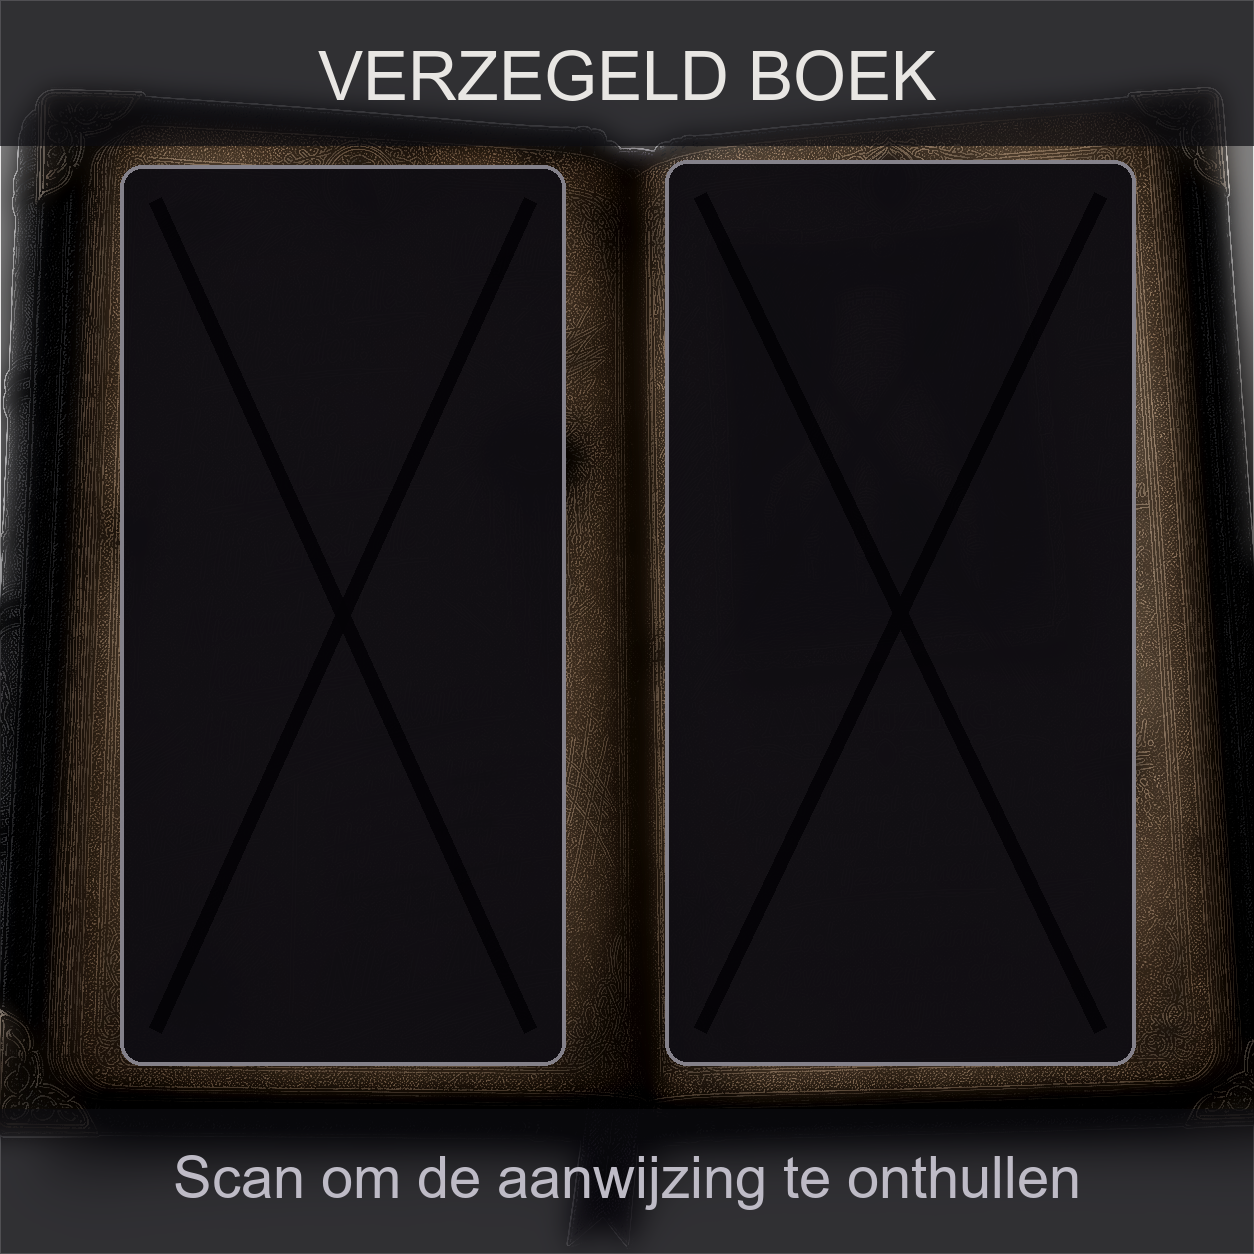
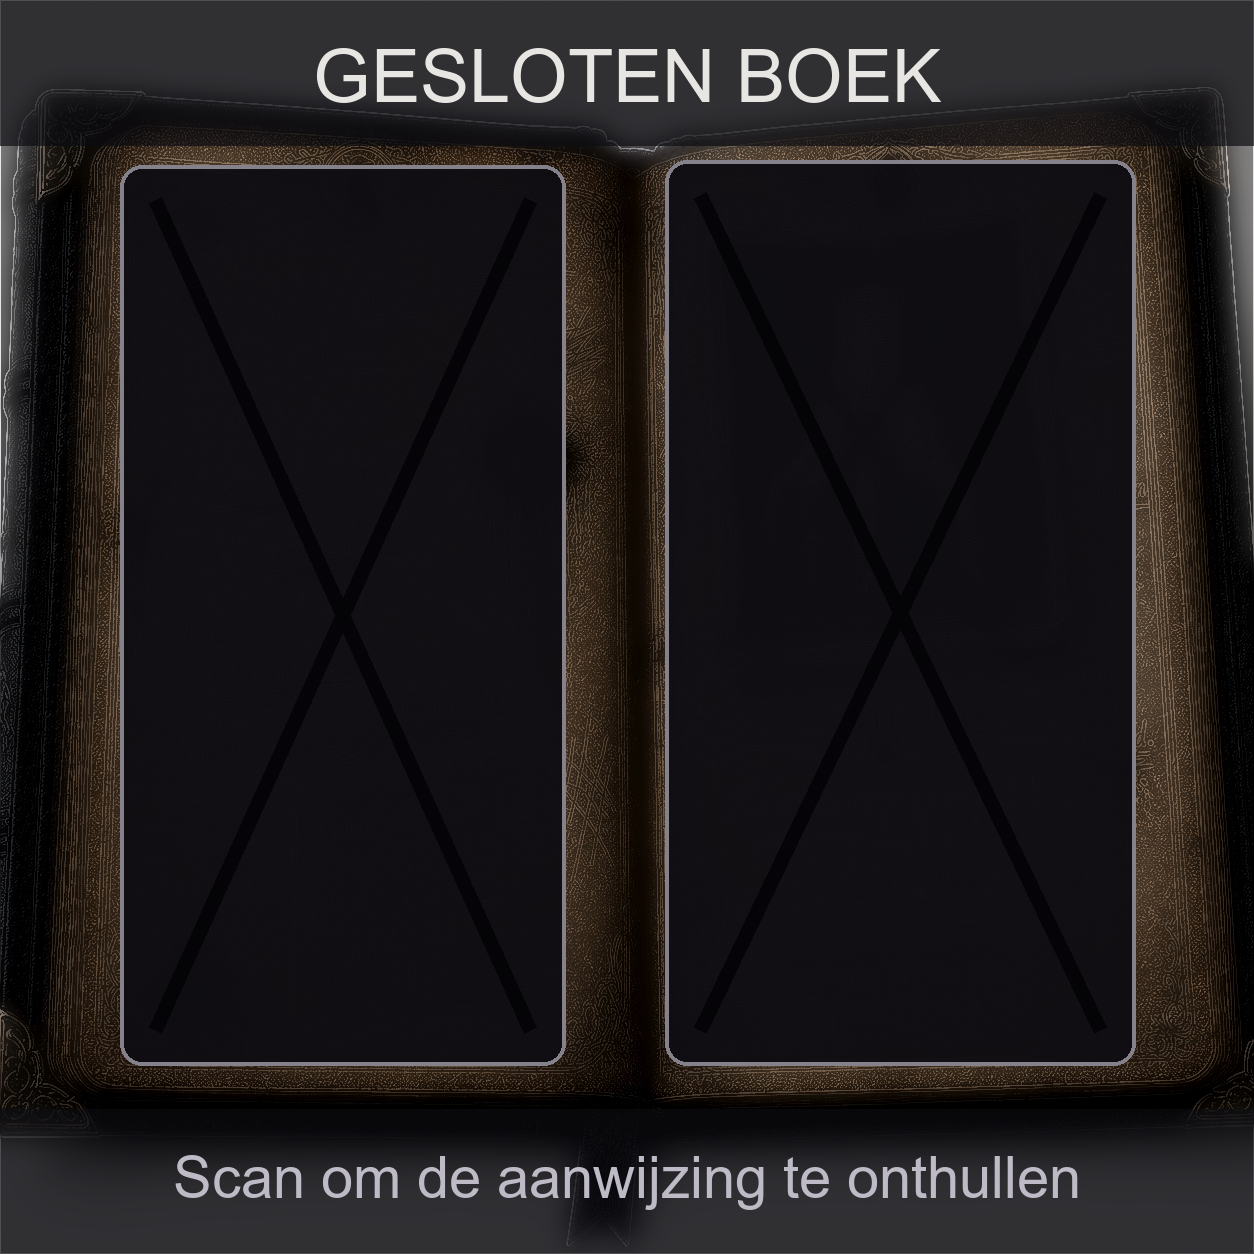
Make AR clue larger and zoomable

Changed region(s): [[0.2488, 0.0311, 0.7464, 0.0933]]

diff --git a/ar.js b/ar.js
@@ -4,12 +4,20 @@ const statusText = document.getElementById("statusText");
 const scanNote = document.getElementById("scanNote");
 const exitButton = document.getElementById("exitButton");
 const sceneMount = document.getElementById("sceneMount");
+const zoomControls = document.getElementById("zoomControls");
+const zoomInButton = document.getElementById("zoomInButton");
+const zoomOutButton = document.getElementById("zoomOutButton");
+const zoomLabel = document.getElementById("zoomLabel");
 
 const targetImagePath = "assets/ar/book-scan-marker.png";
 const overlayImagePath = "assets/ar/book-inside-transparent.png";
 const precompiledTargetPath = "assets/ar/book-target.mind";
 
 let objectUrl = null;
+let bookPlane = null;
+let bookZoom = 1.5;
+let pinchStartDistance = null;
+let pinchStartZoom = bookZoom;
 
 if (!new URLSearchParams(window.location.search).has("scanner")) {
   window.location.replace("index.html");
@@ -85,10 +93,11 @@ function createARScene(targetUrl) {
       <a-camera position="0 0 0" look-controls="enabled: false"></a-camera>
       <a-entity id="bookTarget" mindar-image-target="targetIndex: 0">
         <a-plane
+          id="bookPlane"
           src="#bookInside"
           position="0 0 0.02"
-          width="1.2"
-          height="1.2"
+          width="1.5"
+          height="1.5"
           material="transparent: true; alphaTest: 0.01"
           animation__appear="property: scale; from: 0.82 0.82 0.82; to: 1 1 1; dur: 520; easing: easeOutCubic">
         </a-plane>
@@ -98,6 +107,8 @@ function createARScene(targetUrl) {
 
   const scene = sceneMount.querySelector("a-scene");
   const target = sceneMount.querySelector("#bookTarget");
+  bookPlane = sceneMount.querySelector("#bookPlane");
+  updateBookZoom();
 
   scene.addEventListener("arReady", () => {
     startPanel.classList.add("is-hidden");
@@ -112,11 +123,55 @@ function createARScene(targetUrl) {
 
   target.addEventListener("targetFound", () => {
     scanNote.hidden = true;
+    zoomControls.hidden = false;
   });
 
   target.addEventListener("targetLost", () => {
     scanNote.hidden = false;
   });
+}
+
+zoomInButton.addEventListener("click", () => {
+  setBookZoom(bookZoom + 0.15);
+});
+
+zoomOutButton.addEventListener("click", () => {
+  setBookZoom(bookZoom - 0.15);
+});
+
+window.addEventListener("touchstart", (event) => {
+  if (event.touches.length !== 2) return;
+  pinchStartDistance = getTouchDistance(event.touches);
+  pinchStartZoom = bookZoom;
+}, { passive: true });
+
+window.addEventListener("touchmove", (event) => {
+  if (event.touches.length !== 2 || !pinchStartDistance) return;
+  const nextDistance = getTouchDistance(event.touches);
+  setBookZoom(pinchStartZoom * (nextDistance / pinchStartDistance));
+}, { passive: true });
+
+window.addEventListener("touchend", () => {
+  pinchStartDistance = null;
+  pinchStartZoom = bookZoom;
+}, { passive: true });
+
+function setBookZoom(value) {
+  bookZoom = Math.max(1.1, Math.min(2.4, value));
+  updateBookZoom();
+}
+
+function updateBookZoom() {
+  if (!bookPlane) return;
+  bookPlane.setAttribute("width", String(bookZoom));
+  bookPlane.setAttribute("height", String(bookZoom));
+  zoomLabel.textContent = `${Math.round(bookZoom * 100)}%`;
+}
+
+function getTouchDistance(touches) {
+  const dx = touches[0].clientX - touches[1].clientX;
+  const dy = touches[0].clientY - touches[1].clientY;
+  return Math.hypot(dx, dy);
 }
 
 window.addEventListener("pagehide", () => {

diff --git a/ar.css b/ar.css
@@ -166,6 +166,43 @@ button {
   backdrop-filter: blur(8px);
 }
 
+.zoom-controls {
+  position: fixed;
+  left: 50%;
+  bottom: max(88px, calc(env(safe-area-inset-bottom) + 88px));
+  z-index: 5;
+  display: inline-flex;
+  align-items: center;
+  gap: 10px;
+  transform: translateX(-50%);
+  padding: 8px;
+  border: 1px solid rgba(190, 187, 198, 0.22);
+  border-radius: 8px;
+  background: rgba(11, 11, 16, 0.74);
+  color: var(--text);
+  backdrop-filter: blur(10px);
+}
+
+.zoom-controls button {
+  width: 44px;
+  height: 44px;
+  border: 1px solid rgba(232, 230, 227, 0.28);
+  border-radius: 7px;
+  background: rgba(21, 24, 33, 0.94);
+  color: var(--text);
+  cursor: pointer;
+  font-size: 24px;
+  font-weight: 700;
+  line-height: 1;
+}
+
+.zoom-controls span {
+  min-width: 54px;
+  text-align: center;
+  color: var(--muted);
+  font-size: 14px;
+}
+
 .ar-start.is-hidden {
   opacity: 0;
   pointer-events: none;

diff --git a/ar.html b/ar.html
@@ -21,6 +21,11 @@
     </section>
 
     <p class="scan-note" id="scanNote" hidden>Richt je camera op het boek.</p>
+    <div class="zoom-controls" id="zoomControls" hidden aria-label="AR zoom bediening">
+      <button type="button" id="zoomOutButton" aria-label="Maak het AR-boek kleiner">-</button>
+      <span id="zoomLabel">150%</span>
+      <button type="button" id="zoomInButton" aria-label="Maak het AR-boek groter">+</button>
+    </div>
     <button class="exit-ar" type="button" id="exitButton">Verlaat AR</button>
   </main>
 

diff --git a/index.html b/index.html
@@ -37,7 +37,7 @@
             <img class="pc-ar-qr" id="pcArQr" src="" alt="QR-code naar de AR-scanner">
             <a class="pc-ar-link" id="pcArLink" href="ar.html?scanner=1" target="_blank" rel="noreferrer">Open AR-link</a>
           </div>
-          <img class="pc-ar-target" src="assets/ar/book-scan-marker.png" alt="Scanmarker van het verzegelde boek">
+          <img class="pc-ar-target" src="assets/ar/book-scan-marker.png" alt="Scanmarker van het gesloten boek">
         </div>
       </div>
     </section>